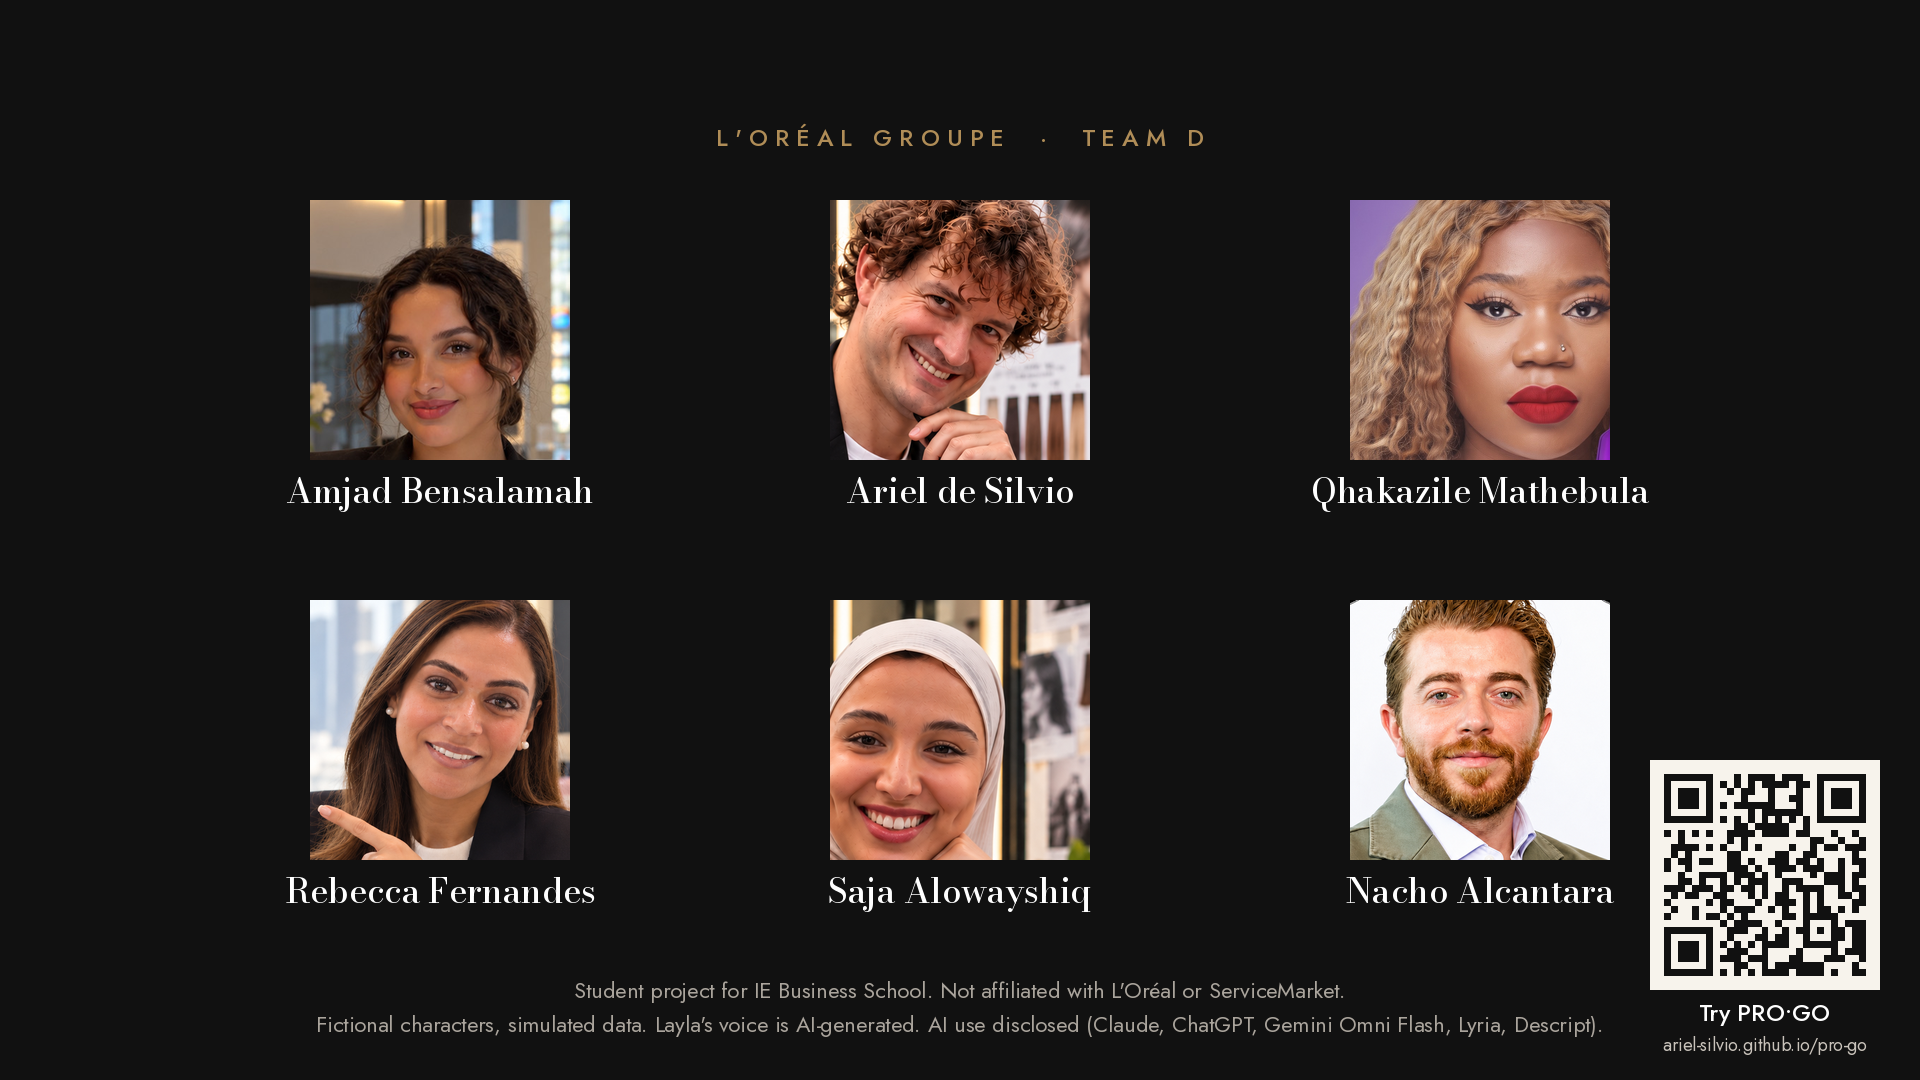
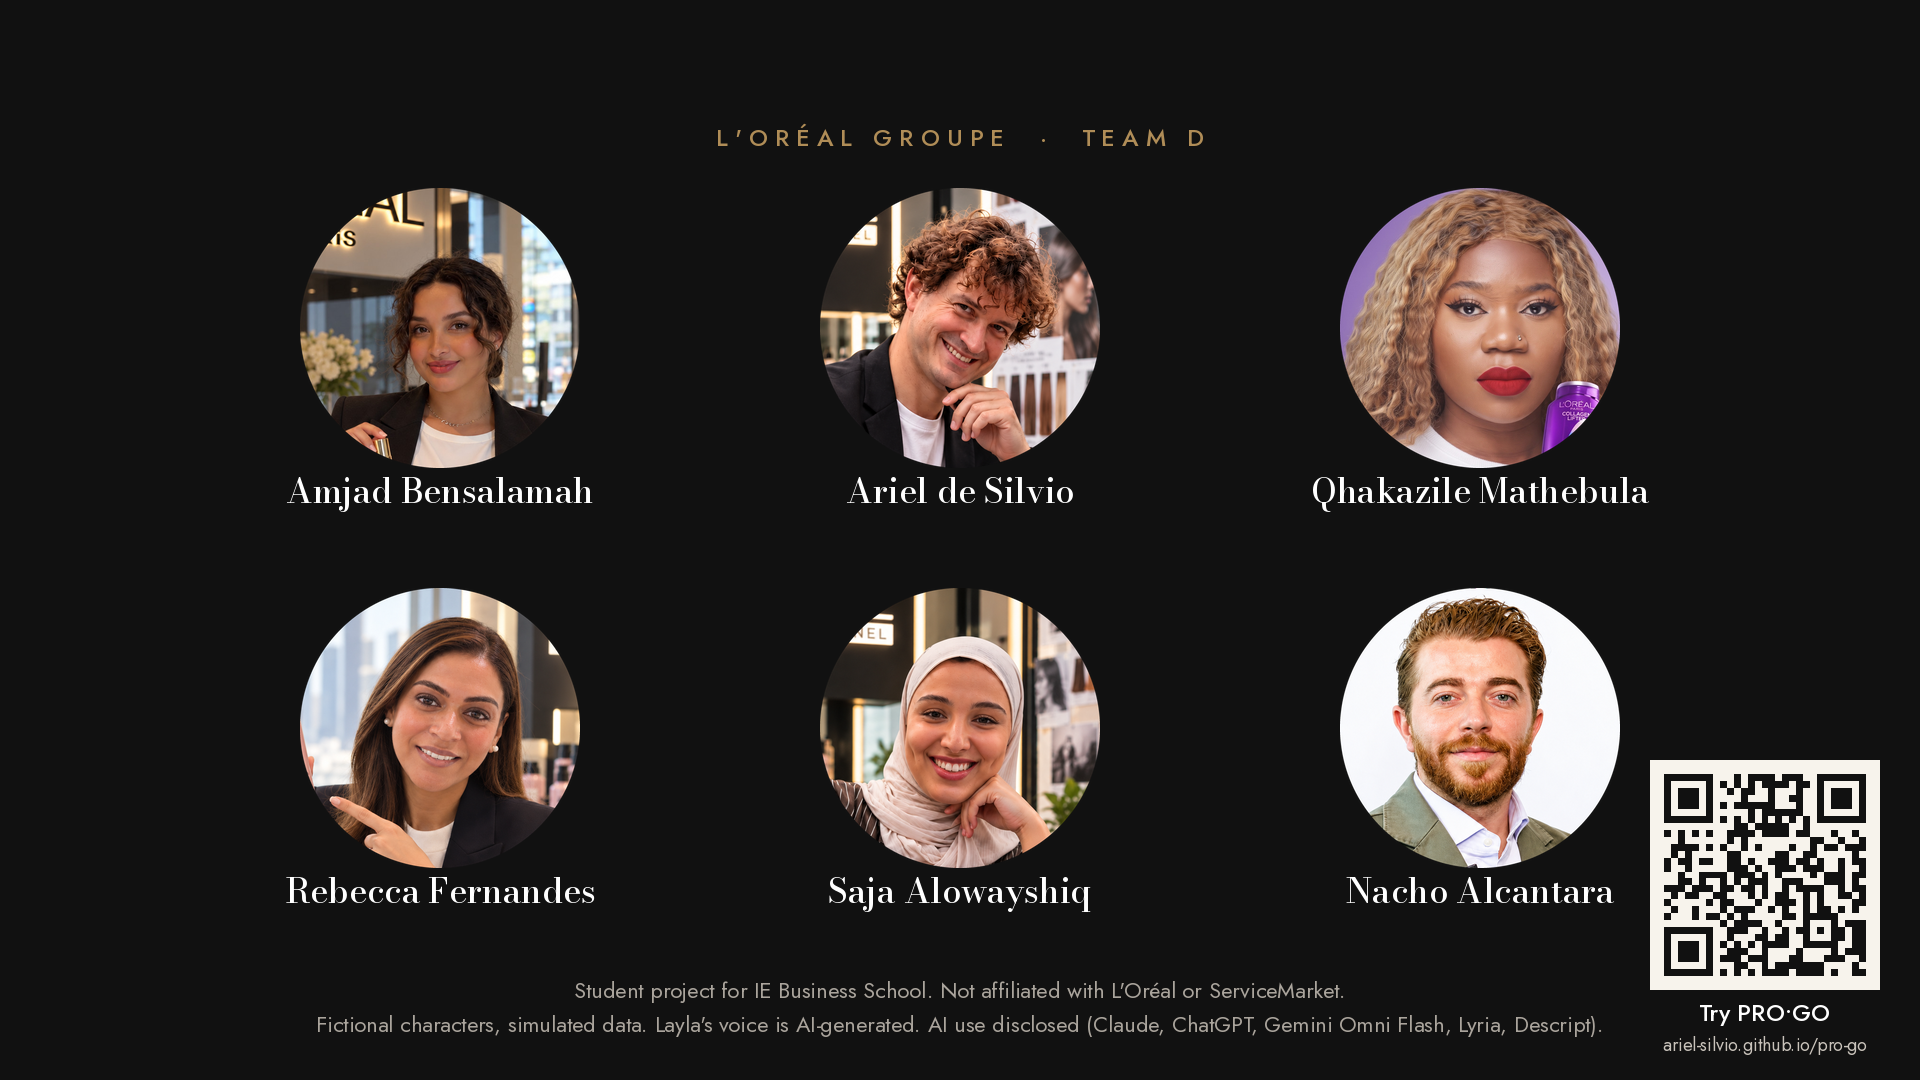
Video v18: circular, centred team portraits on the credits
Claude-Session: https://claude.ai/code/session_01Bmd9otRNxXJAwYkbXCSPVB

diff --git a/video/scripts/animatic.py b/video/scripts/animatic.py
@@ -69,12 +69,13 @@ def credits_faces():
     """Six faces, six names: the team behind the proposal."""
     img = Image.new("RGB", (1920, 1080), R.INK); d = ImageDraw.Draw(img)
     R.spaced(d, (960, 120), "L'ORÉAL GROUPE  ·  TEAM D", R.font(R.SANS_M, 24), R.GOLD, 7, True)
-    # v18: the team's own portraits (Drive folder, 10 Nov), cropped to the face so no brand logo or product shows
+    # v18: the team's own portraits (Drive folder, 10 Nov), circular, face centred (Ariel: logos may show on this screen)
     crew = [("Amjad Bensalamah", "amjad"), ("Ariel de Silvio", "ariel"), ("Qhakazile Mathebula", "qhakazile"),
             ("Rebecca Fernandes", "rebecca"), ("Saja Alowayshiq", "saja"), ("Nacho Alcantara", "nacho")]
     for i, (name, key) in enumerate(crew):
         x, y = 960 + (i % 3 - 1) * 520, 200 + (i // 3) * 400
-        img.paste(Image.open(f"out/stills/portraits/{key}.png").convert("RGB").resize((260, 260), Image.LANCZOS), (x - 130, y))
+        t = Image.open(f"out/stills/portraits/{key}.png").resize((280, 280), Image.LANCZOS)      # circular, face centred
+        img.paste(t, (x - 140, y - 12), t)
         d.text((x, y + 290), name, font=R.font(R.SERIF, 34), fill=R.WHITE, anchor="mm")
     import qrcode
     qr = qrcode.QRCode(border=2, box_size=8); qr.add_data("https://ariel-silvio.github.io/pro-go/"); qr.make(fit=True)
